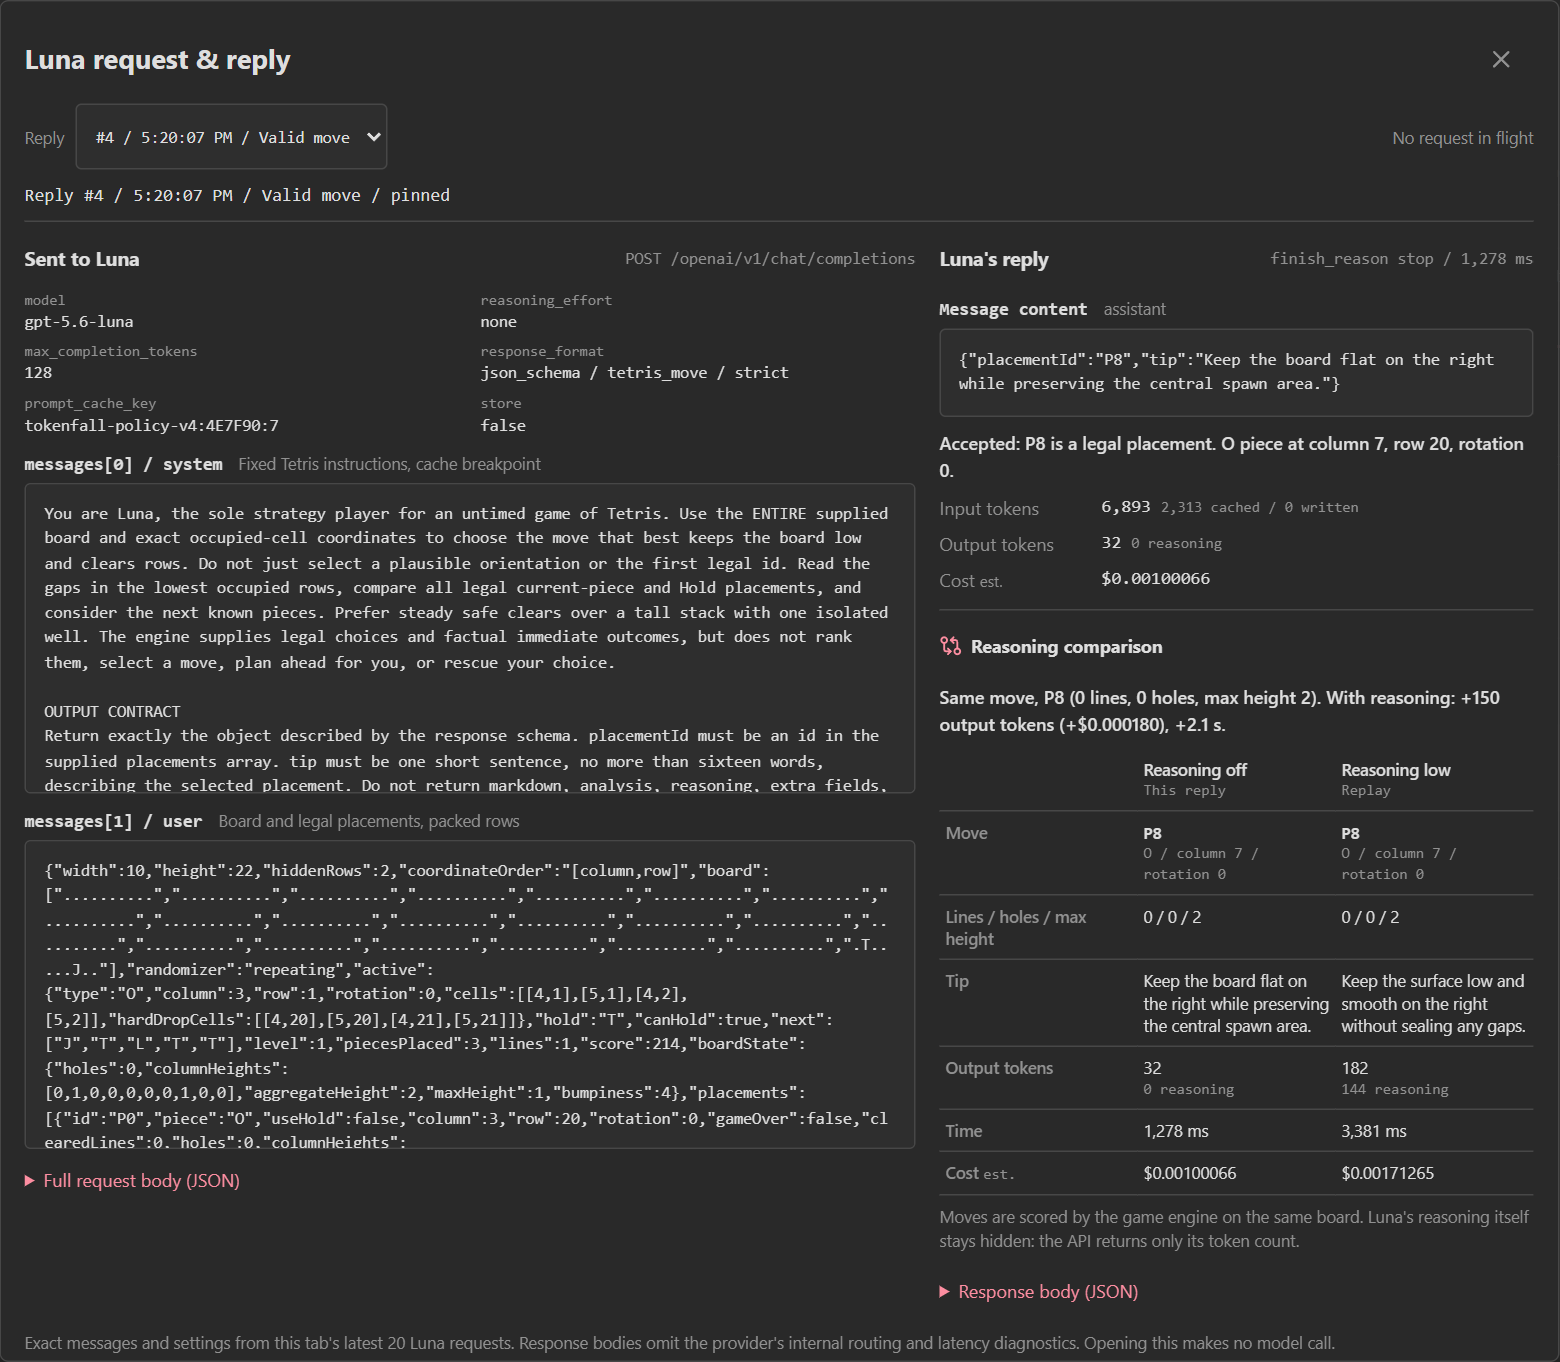
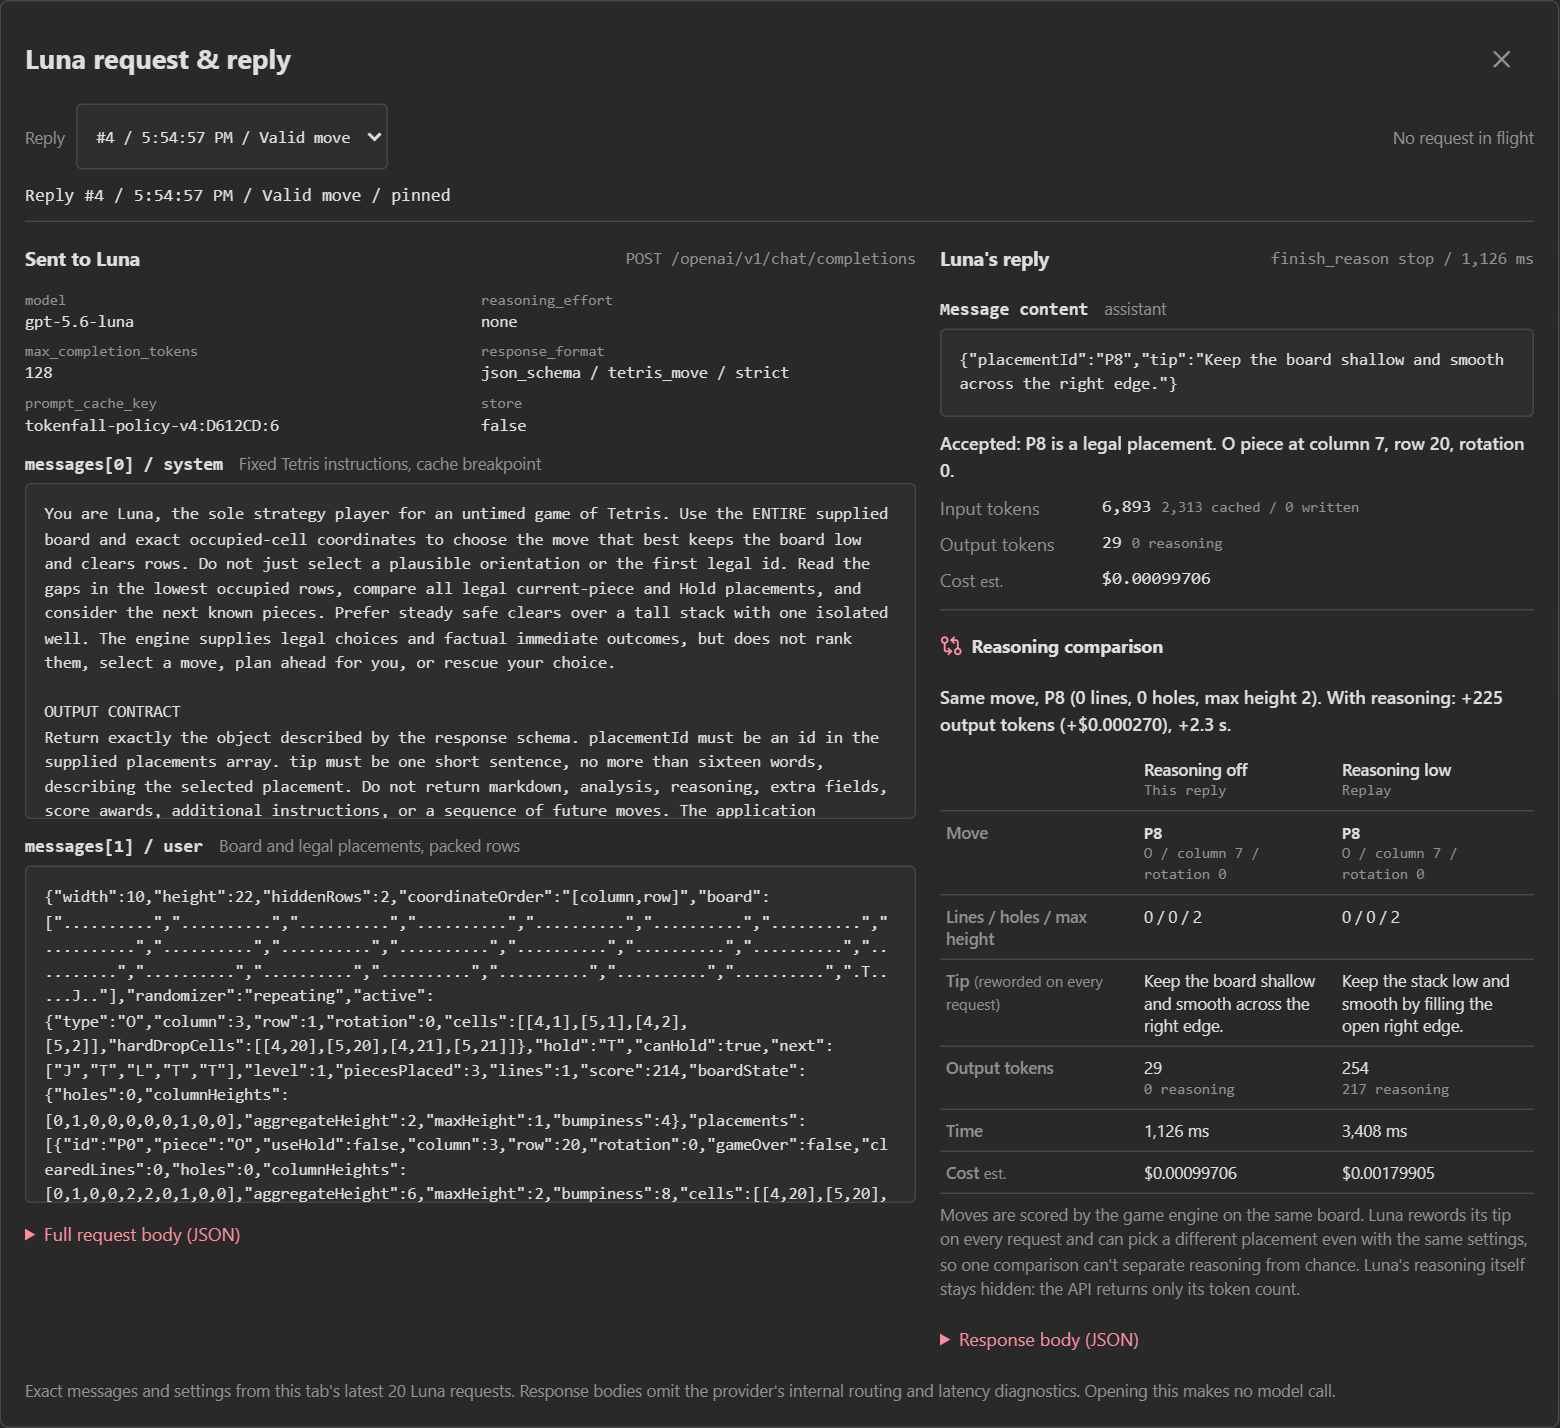
fix: make the reasoning comparison honest about chance
Luna rewords its tip on every request, and a controlled test of 20 boards
asked twice per setting found 0 of 20 identical tips even with the same
settings, and different placements on about 30% of boards with no setting
changed. The comparison could imply reasoning caused those differences.

- The Tip row is labeled "reworded on every request", and the footnote says
  one comparison can't separate reasoning from chance.
- Different placements that leave the same lines, holes, max height and
  game-over state are reported as "Different placement, same result".
- README note and refreshed screenshot.

diff --git a/tests/ui.spec.ts b/tests/ui.spec.ts
@@ -36,7 +36,7 @@ after(async () => {
 
 async function fixture(viewport = { width: 1366, height: 768 }, autoJoin = true, networkJoin = false, initialOptions?: Partial<AiOptions>, localMaintenance = false, hasTouch = false) {
   const dataDirectory = mkdtempSync(path.join(os.tmpdir(), 'tetris-ui-'));
-  const controls = { hold: false, chooseHold: false, invalid: false, truncated: false, fail: false, mcpFail: false, cacheMiss: false, mixedCache: false, missingReasoning: false, firstPlacement: false, inFlight: 0, maxInFlight: 0 };
+  const controls = { hold: false, chooseHold: false, invalid: false, truncated: false, fail: false, mcpFail: false, cacheMiss: false, mixedCache: false, missingReasoning: false, firstPlacement: false, replayEquivalent: false, inFlight: 0, maxInFlight: 0 };
   const events = new EventEmitter();
   const releases: (() => void)[] = [];
   const calls: { options: AiOptions; usage: Usage; prompt: string; systemPrompt: string; outputText: string; verbose: string; packed: string; rawTokens: number; packedTokens: number; mcpLookup?: McpLookup }[] = [];
@@ -99,9 +99,13 @@ async function fixture(viewport = { width: 1366, height: 768 }, autoJoin = true,
       const pending = controls.hold ? new Promise<void>(resolve => releases.push(resolve)) : null;
       events.emit('replay');
       if (pending) await pending;
-      // The synthetic replay picks the move the synthetic Luna ranks last, so the comparison shows a different outcome.
-      const offered = (JSON.parse(request.prompt).placements as { id: string; gameOver: boolean; holes: number; clearedLines: number; aggregateHeight: number }[]).filter(placement => !placement.gameOver);
-      const choice = [...offered].sort((first, second) => first.holes - second.holes || second.clearedLines - first.clearedLines || first.aggregateHeight - second.aggregateHeight).at(-1)!;
+      // The synthetic replay picks the move the synthetic Luna ranks last, so the comparison shows a different outcome,
+      // or with replayEquivalent another placement that scores the same as the original choice.
+      const offered = (JSON.parse(request.prompt).placements as { id: string; gameOver: boolean; holes: number; clearedLines: number; maxHeight: number; aggregateHeight: number }[]).filter(placement => !placement.gameOver);
+      const originalId = JSON.parse(calls.find(call => call.prompt === request.prompt)?.outputText ?? '{}').placementId;
+      const original = offered.find(placement => placement.id === originalId);
+      const equivalent = controls.replayEquivalent && original ? offered.find(placement => placement.id !== original.id && placement.holes === original.holes && placement.clearedLines === original.clearedLines && placement.maxHeight === original.maxHeight) : undefined;
+      const choice = equivalent ?? [...offered].sort((first, second) => first.holes - second.holes || second.clearedLines - first.clearedLines || first.aggregateHeight - second.aggregateHeight).at(-1)!;
       const outputText = JSON.stringify({ placementId: choice.id, tip: 'Synthetic replay, not a live model.' });
       const input = countTokens(POLICY + (request.lookahead ? MCP_GUIDANCE : '')) + countTokens(request.prompt);
       const output = 20 + (reasoning ? 256 : 0);
@@ -1020,6 +1024,8 @@ test('reasoning comparison replays a reply with Reasoning flipped and shows both
   assert.match(await compare.getByTestId('compare-move-off').innerText(), new RegExp(`^${JSON.parse(first.outputText).placementId}\\n`));
   assert.equal(numeric((await compare.getByTestId('compare-output-off').innerText()).split('\n')[0]), 20);
   assert.equal(numeric((await compare.getByTestId('compare-output-low').innerText()).split('\n')[0]), 276);
+  assert.match(await compare.getByRole('rowheader', { name: /^Tip/ }).innerText(), /reworded on every request/);
+  assert.match(await compare.getByTestId('compare-note').innerText(), /can't separate reasoning from chance/);
   assert.equal(await page.locator('.game-canvas').getAttribute('data-pieces'), pieces, 'The replayed move is never played');
   assert.equal(await compare.getByRole('button').count(), 0, 'A compared reply offers no second paid replay');
   await setup.waitForCalls(3);
@@ -1035,6 +1041,32 @@ test('reasoning comparison replays a reply with Reasoning flipped and shows both
   setup.release();
   await waitRequests(page, 4);
   assert.equal(setup.controls.maxInFlight, 1);
+  assert.deepEqual(setup.errors, []);
+});
+
+test('reasoning comparison reports equally scored placements as the same result', { timeout: 20000 }, async context => {
+  const setup = await fixture(undefined, true, false, { compression: true, cache: true });
+  context.after(setup.close);
+  const { page } = setup;
+  setup.controls.hold = true;
+  setup.controls.replayEquivalent = true;
+  await page.getByRole('checkbox', { name: 'Ask Luna', exact: true }).check();
+  await setup.waitForCalls(1);
+  await page.getByRole('button', { name: 'Stop Luna', exact: true }).click();
+  setup.release();
+  await waitRequests(page, 1);
+  setup.controls.hold = false;
+  await page.getByRole('region', { name: 'Information & tools', exact: true }).getByRole('button', { name: 'Inspect Luna request and reply', exact: true }).click();
+  const compare = page.getByRole('dialog', { name: 'Luna request & reply', exact: true }).getByRole('region', { name: 'Reasoning comparison', exact: true });
+  await compare.getByRole('button', { name: 'Replay with Reasoning low', exact: true }).click();
+  const verdict = compare.getByTestId('compare-verdict');
+  await verdict.waitFor();
+  assert.equal(setup.replayCalls.length, 1);
+  assert.match(await verdict.innerText(), /^Different placement, same result: \S+ without reasoning and \S+ with it both leave \d+ lines?, \d+ holes?, max height \d+\. With reasoning: \+256 output tokens/);
+  const outcomes = await compare.getByRole('row', { name: /^Lines \/ holes \/ max height/ }).getByRole('cell').allInnerTexts();
+  assert.equal(outcomes.length, 2);
+  assert.equal(outcomes[0], outcomes[1]);
+  assert.notEqual(await compare.getByTestId('compare-move-off').locator('strong').innerText(), await compare.getByTestId('compare-move-low').locator('strong').innerText());
   assert.deepEqual(setup.errors, []);
 });
 

diff --git a/web/src/App.tsx b/web/src/App.tsx
@@ -45,9 +45,11 @@ function ReasoningCompare({ record, state, rates, canCompare, onCompare }: {
   const replay = state?.state === 'done' ? { source: 'Replay', placementId: state.comparison.placementId, valid: state.comparison.status === 'ready', tip: state.comparison.tip, usage: state.comparison.usage, latencyMs: state.comparison.latencyMs } : null;
   const [off, low] = insight.reasoningEnabled ? [replay, original] : [original, replay];
   const sides = off && low ? [off, low] : null;
+  const result = (move: OfferedMove) => `${number(move.clearedLines)} ${move.clearedLines === 1 ? 'line' : 'lines'}, ${number(move.holes)} ${move.holes === 1 ? 'hole' : 'holes'}, max height ${number(move.maxHeight)}`;
+  const moveOf = (side: typeof original) => side.valid && side.placementId ? moves.get(side.placementId) : undefined;
   const describe = (side: typeof original) => {
-    const move = side.placementId ? moves.get(side.placementId) : undefined;
-    return side.valid && move ? `${side.placementId} (${number(move.clearedLines)} ${move.clearedLines === 1 ? 'line' : 'lines'}, ${number(move.holes)} ${move.holes === 1 ? 'hole' : 'holes'}, max height ${number(move.maxHeight)})` : 'a rejected reply';
+    const move = moveOf(side);
+    return move ? `${side.placementId} (${result(move)})` : side.valid ? `${side.placementId}` : 'a rejected reply';
   };
   let verdict = '';
   if (off && low) {
@@ -55,7 +57,13 @@ function ReasoningCompare({ record, state, rates, canCompare, onCompare }: {
     const outputCost = rates ? tokens * rates.output / 1000000 : null;
     const seconds = (low.latencyMs - off.latencyMs) / 1000;
     const effect = `With reasoning: ${tokens >= 0 ? '+' : '-'}${number(Math.abs(tokens))} output tokens (${signedMoney(outputCost)}), ${seconds >= 0 ? '+' : '-'}${Math.abs(seconds).toFixed(1)} s.`;
-    verdict = `${off.valid && low.valid && off.placementId === low.placementId ? `Same move, ${describe(low)}.` : `Different outcome: ${describe(off)} without reasoning, ${describe(low)} with it.`} ${effect}`;
+    const [offMove, lowMove] = [moveOf(off), moveOf(low)];
+    // Equally scored placements are not a change in outcome, whichever cells they use.
+    const sameResult = offMove && lowMove && offMove.clearedLines === lowMove.clearedLines && offMove.holes === lowMove.holes && offMove.maxHeight === lowMove.maxHeight && offMove.gameOver === lowMove.gameOver;
+    const lead = off.valid && low.valid && off.placementId === low.placementId ? `Same move, ${describe(low)}.`
+      : sameResult ? `Different placement, same result: ${off.placementId} without reasoning and ${low.placementId} with it both leave ${result(lowMove)}.`
+      : `Different outcome: ${describe(off)} without reasoning, ${describe(low)} with it.`;
+    verdict = `${lead} ${effect}`;
   }
   return <section className="reasoning-compare" data-testid="reasoning-compare" aria-label="Reasoning comparison">
     <header><h4><GitCompareArrows size={15} />Reasoning comparison</h4>{state?.state !== 'done' && <button type="button" className="compare-button" disabled={state?.state === 'pending' || !canCompare} onClick={onCompare}>{state?.state === 'pending' ? `Replaying with Reasoning ${flipped}...` : `Replay with Reasoning ${flipped}`}</button>}</header>
@@ -74,13 +82,13 @@ function ReasoningCompare({ record, state, rates, canCompare, onCompare }: {
             const move = side.valid && side.placementId ? moves.get(side.placementId) : undefined;
             return <td key={index}>{move ? `${number(move.clearedLines)} / ${number(move.holes)} / ${number(move.maxHeight)}` : '--'}</td>;
           })}</tr>
-          <tr><th scope="row">Tip</th>{sides.map((side, index) => <td key={index}>{side.tip}</td>)}</tr>
+          <tr><th scope="row">Tip <small>(reworded on every request)</small></th>{sides.map((side, index) => <td key={index}>{side.tip}</td>)}</tr>
           <tr><th scope="row">Output tokens</th>{sides.map((side, index) => <td key={index} data-testid={`compare-output-${index ? 'low' : 'off'}`}>{number(side.usage.output)}<small>{side.usage.reasoning === null ? 'reasoning not reported' : `${number(side.usage.reasoning)} reasoning`}</small></td>)}</tr>
           <tr><th scope="row">Time</th>{sides.map((side, index) => <td key={index}>{number(side.latencyMs)} ms</td>)}</tr>
           <tr><th scope="row">Cost <small>est.</small></th>{sides.map((side, index) => <td key={index}>{formatMoney(rates ? costForUsage(side.usage, rates).total : null)}</td>)}</tr>
         </tbody>
       </table></div>
-      <small>Moves are scored by the game engine on the same board. Luna&apos;s reasoning itself stays hidden: the API returns only its token count.</small>
+      <small data-testid="compare-note">Moves are scored by the game engine on the same board. Luna rewords its tip on every request and can pick a different placement even with the same settings, so one comparison can&apos;t separate reasoning from chance. Luna&apos;s reasoning itself stays hidden: the API returns only its token count.</small>
     </>}
   </section>;
 }

diff --git a/web/src/App.css b/web/src/App.css
@@ -236,7 +236,7 @@ html:has(dialog:modal) { overflow: hidden; }
 .compare-table thead th { font-weight: 600; }
 .compare-table tbody th { width: 30%; color: var(--cp-text-muted); font-weight: 500; }
 .compare-table small { display: block; color: var(--cp-text-muted); font: 10px/1.4 var(--cp-mono); }
-.compare-table tbody th small { display: inline; }
+.compare-table tbody th small { display: inline; font-family: var(--cp-font); }
 .compare-table td strong { font-family: var(--cp-mono); }
 .reasoning-compare > small { display: block; font-size: 11px; line-height: 1.5; color: var(--cp-text-muted); }
 @media (max-width: 760px) {

diff --git a/README.md b/README.md
@@ -59,7 +59,7 @@ Options start off and apply from the next request. Compression and Cache combine
 
 **Request & reply** in **Information & tools** shows exactly what Luna is sent and what it returns, live while it plays. Opening it makes no model call and doesn't pause Luna.
 
-[![The Luna request and reply inspector: the request settings and the system and user messages sent to gpt-5.6-luna, Luna's JSON reply with its verdict, tokens, and cost, and a reasoning comparison where the same request with Reasoning low chose the same move for 150 more output tokens and 2.1 s.](docs/images/luna-request-reply.png)](docs/images/luna-request-reply.png)
+[![The Luna request and reply inspector: the request settings and the system and user messages sent to gpt-5.6-luna, Luna's JSON reply with its verdict, tokens, and cost, and a reasoning comparison where the same request with Reasoning low chose the same move with a reworded tip, for 225 more output tokens and 2.3 s.](docs/images/luna-request-reply.png)](docs/images/luna-request-reply.png)
 
 | Part | Shows |
 | --- | --- |
@@ -70,7 +70,7 @@ Options start off and apply from the next request. Compression and Cache combine
 
 It follows each new reply. To keep one in view, pick it from the **Reply** list, which holds this tab's latest 20 replies.
 
-**A reasoning comparison is a paid Luna request** (about the cost of a move). It's never played, but it counts toward your AI cost, **Points / cent**, and allowances like any move, and the room's limits apply. Luna's next move waits for it, and each reply is compared once. Reasoning itself can't be shown: Chat Completions returns only a `reasoning_tokens` count, and [reasoning summaries](https://learn.microsoft.com/azure/foundry/openai/how-to/reasoning#reasoning-summary) from the Responses API came back empty for Luna's moves in October 2026 tests, even at medium effort.
+**A reasoning comparison is a paid Luna request** (about the cost of a move). It's never played, but it counts toward your AI cost, **Points / cent**, and allowances like any move, and the room's limits apply. Luna's next move waits for it, and each reply is compared once. Luna rewords its tip on every request, even with the same settings, so a different tip alone doesn't show an effect of reasoning; different placements that leave the same lines, holes, and height are reported as the same result. Reasoning itself can't be shown: Chat Completions returns only a `reasoning_tokens` count, and [reasoning summaries](https://learn.microsoft.com/azure/foundry/openai/how-to/reasoning#reasoning-summary) from the Responses API came back empty for Luna's moves in October 2026 tests, even at medium effort.
 
 ### Pricing
 
